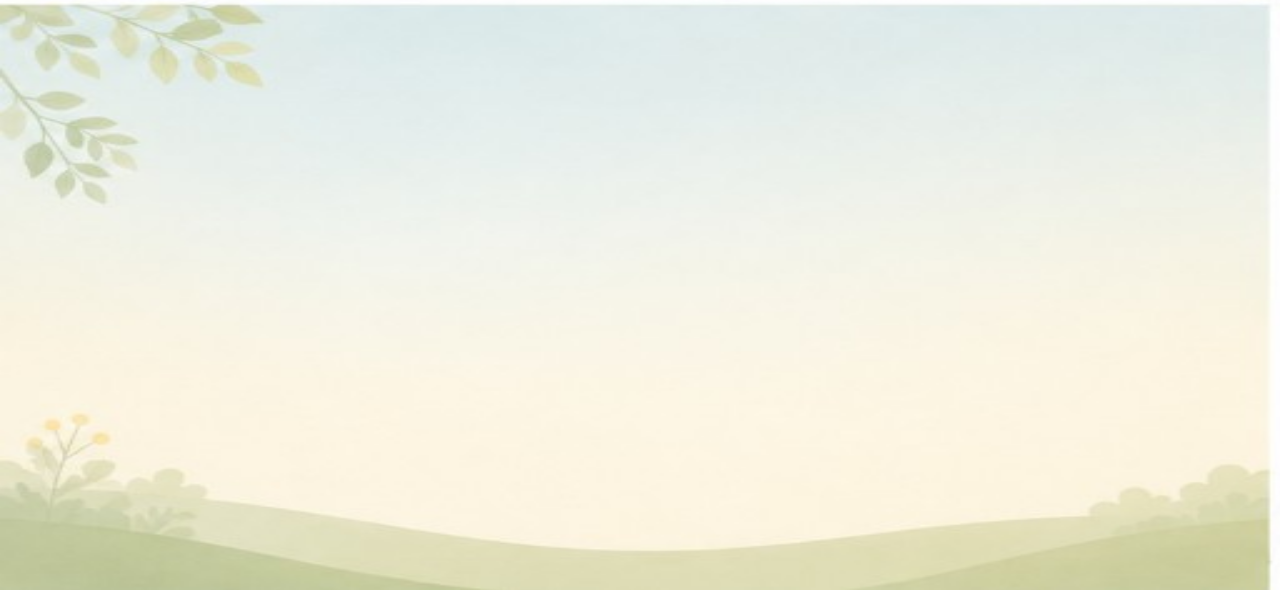
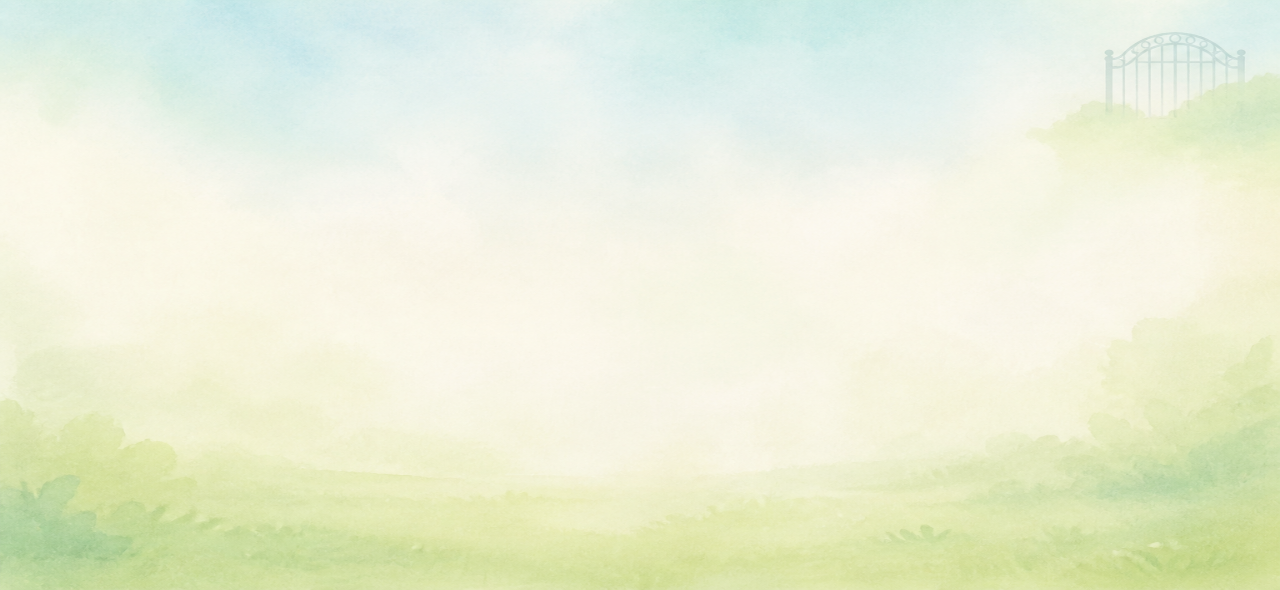
Regenerate outdoor-fresh flats with park/zoo/camp place-true motifs.
Replaces formulaic leaf/sun hill washes so campsite and park lessons read as distinct places, and locks the motif vocabulary in docs.

diff --git a/docs/bg-theme-sets.md b/docs/bg-theme-sets.md
@@ -96,7 +96,7 @@ Anti-formula section.
 | `clinic-cool` | tooth outline, soft sparkle, pale alcove edge, exam-lamp glow | grass, hills, nature landscapes |
 | `travel-air` | paper plane, map-pin trail, soft cloud corner | beach shells, bakery tools, farm wheat |
 | `home-warm` | curtain fold, soft arch shadow, peach hill band at edge | outdoor meadow, clinic teal wall |
-| `outdoor-fresh` | grass fringe, leaf corner, soft sun | indoor shelves, dough, tooth icons |
+| `outdoor-fresh` | grass fringe, picnic blanket corner, zoo gate/rail watermark, tent + lantern | generic leaf/sun stickers only, identical hill formula, indoor shelves, dough, tooth icons |
 | `gym-cool` | basketball corner, court lane fringe, rolled mat, wall-pad edge | outdoor meadow, clinic tooth, bakery dough |
 | `beach-warm` | shell, wave fringe, sand dollar, sun corner | wheat, bakery loaf, clinic sparkles |
 | `bakery-warm` | flour-dust haze, dough ball, loaf / baguette, rolling pin, whisk | **wheat sheaf / farm grain**, generic leaves, beach composition copy |
@@ -219,13 +219,17 @@ arch shadow at the edge only.
 > home palette. Empty centre. No sofas, no lamps, no window plants in the
 > middle band.
 
-### 4. `outdoor-fresh` — park / zoo (when scene is not the hero)
-Palette: soft green + sky. Corner motifs: faint grass fringe at bottom, soft
-leaf corner. **Not** indoor gym — that is `gym-cool`.
+### 4. `outdoor-fresh` — park / zoo / camp (when scene is not the hero)
+Palette: soft sage + pale sky + cream haze. Place-true corner motifs (pick
+**different** ones per panel — do not recycle leaf/sun stickers): thin grass
+fringe (almost-plain `-a`), picnic blanket corner (park), zoo gate / enclosure
+rail watermark, tiny tent + lantern (camp). **Not** indoor gym — that is
+`gym-cool`. **Not** playground structures — that is `playground-fresh`.
 
 > [style lock] Generate a 2×2 grid of quiet ESL slide backgrounds. Shared
-> outdoor palette (sage, sky, soft sun). Empty centre. Not a playground photo;
-> not a full zoo habitat.
+> outdoor palette (sage, sky, cream). Empty centre. Distinct park / zoo / camp
+> corner glyphs — not a playground photo; not a full zoo habitat; no formula
+> leaf-only stickers.
 
 ### 4b. `gym-cool` — gym / sport / workout
 Palette: pale blue-grey indoor wall + soft teal. Corner motifs: basketball,
